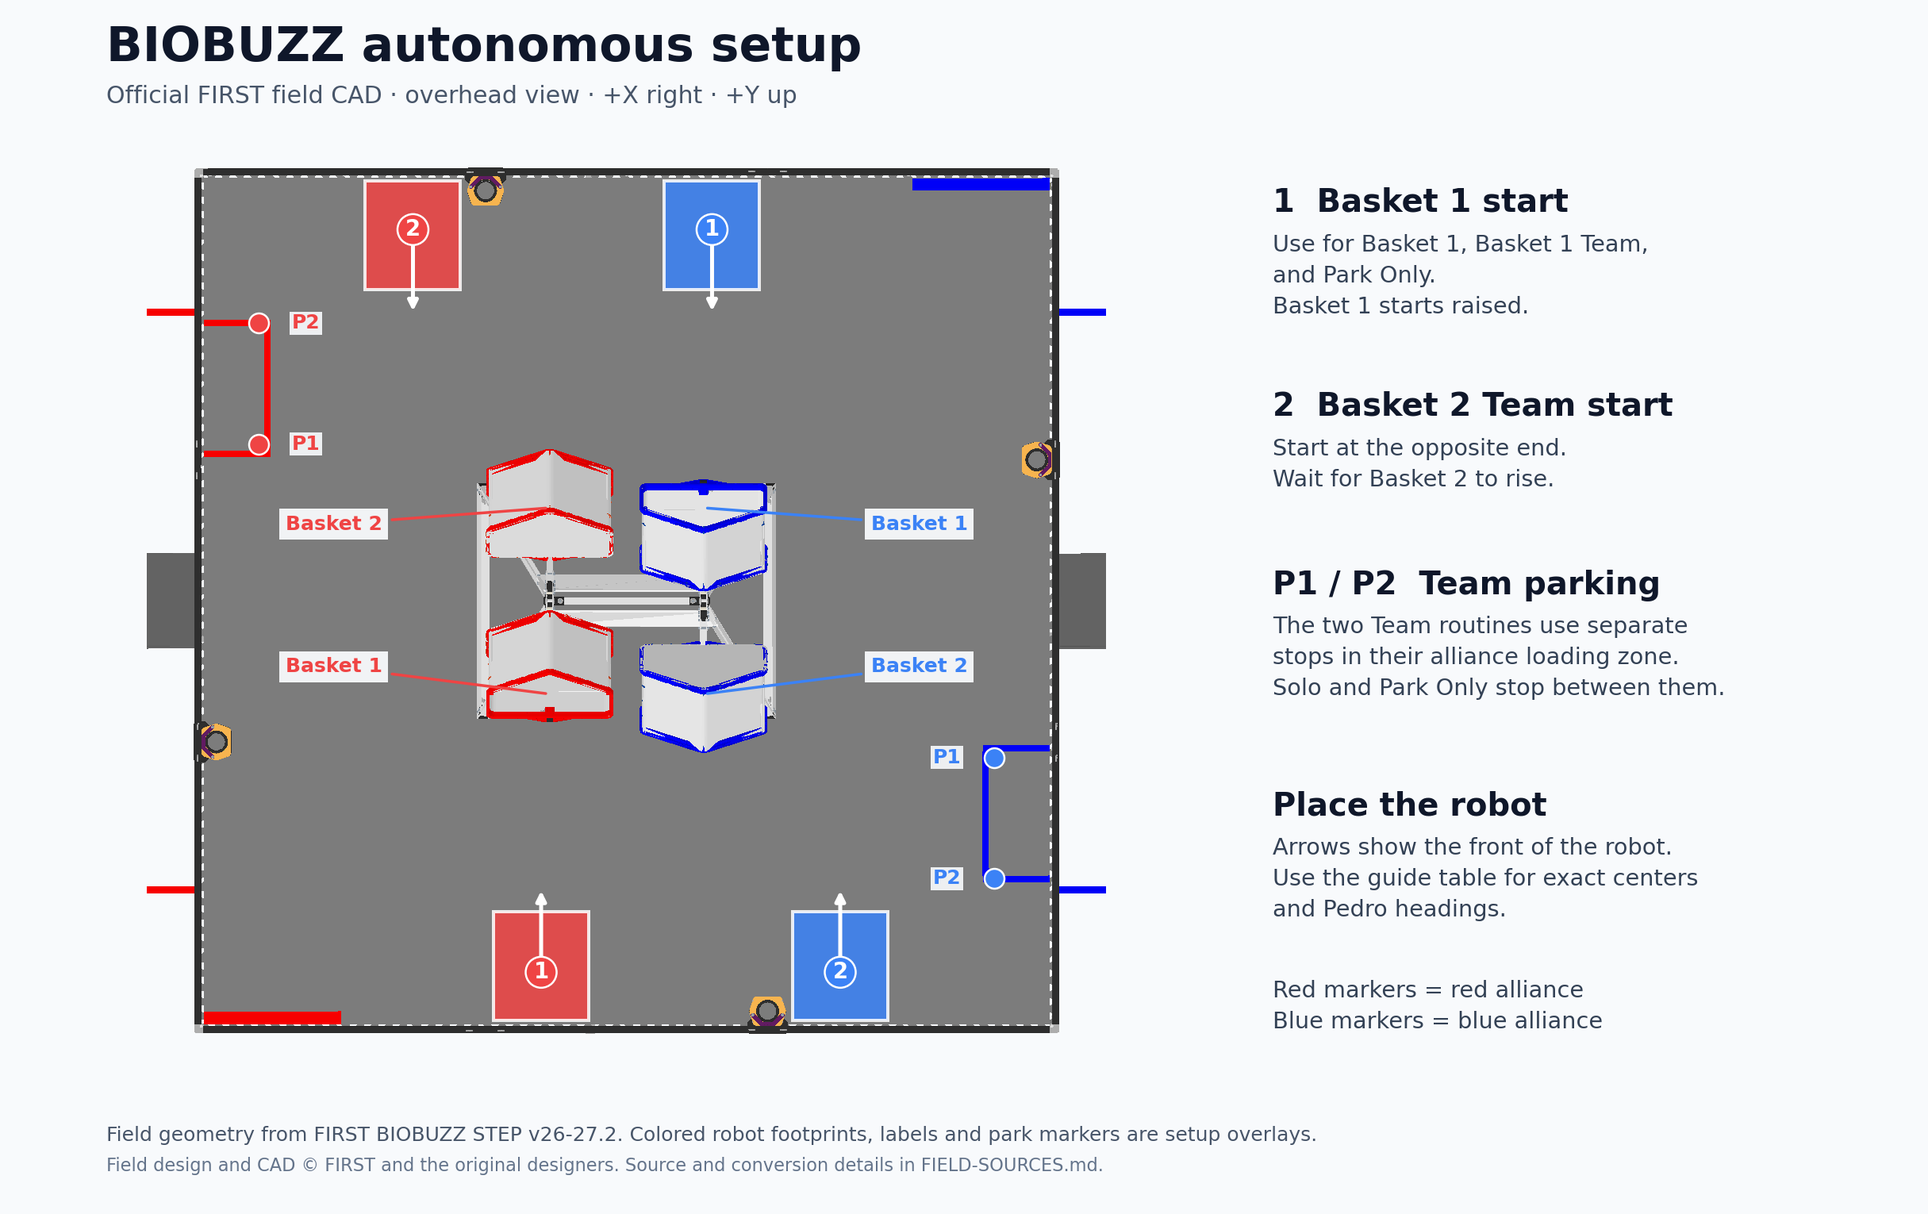
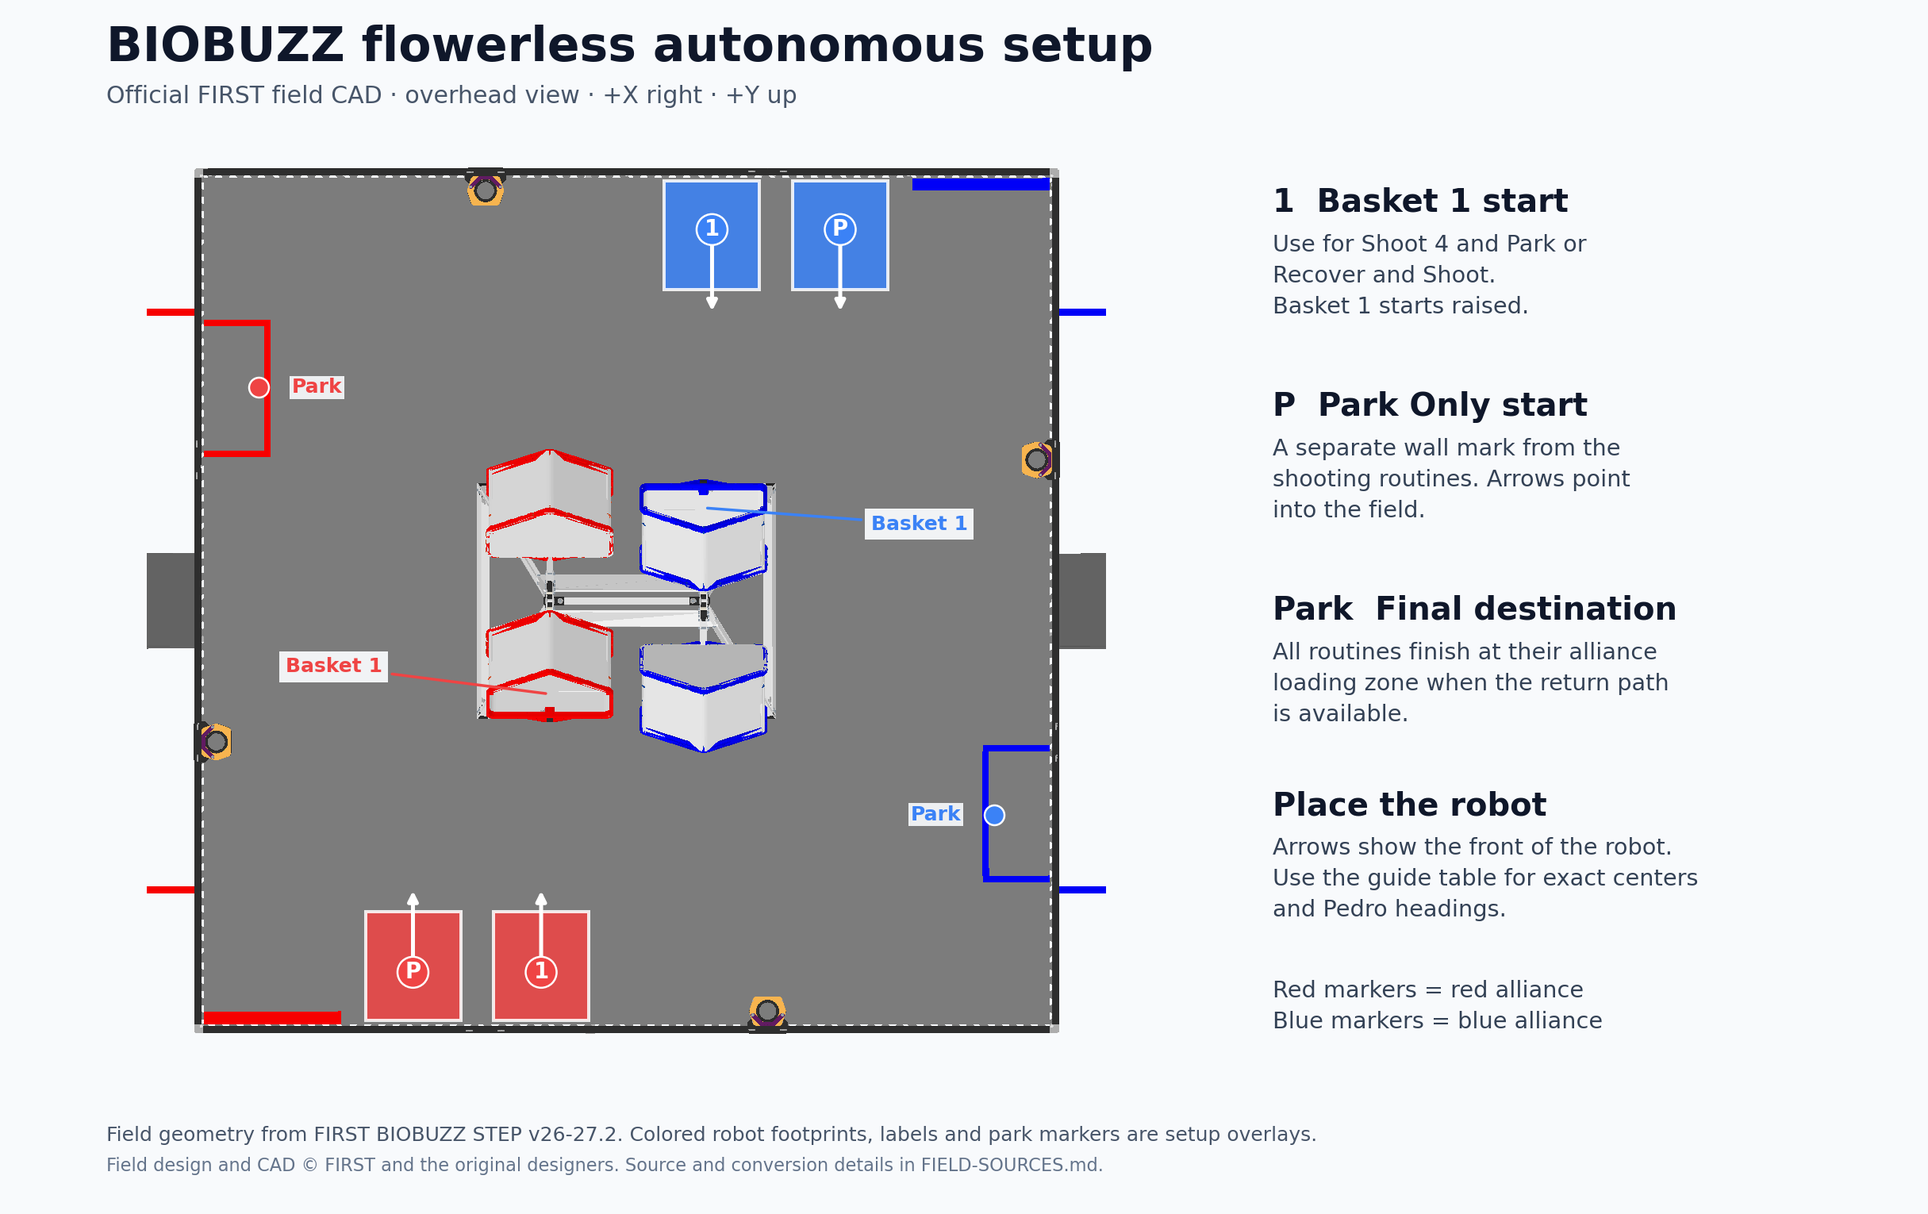
Add six flowerless Basket 1 autonomous routines and separate park starts

diff --git a/TeamCode/src/main/java/org/firstinspires/ftc/teamcode/Auton/cycles/ThirtySecondAuto.java b/TeamCode/src/main/java/org/firstinspires/ftc/teamcode/Auton/cycles/ThirtySecondAuto.java
@@ -32,6 +32,7 @@ public abstract class ThirtySecondAuto extends OpMode {
     private int emptyBase;
     private double cellSafeAt;
     private double raisedCellSince=-1;
+    private double loweredCellSince=-1;
     private boolean partnerTipConfirmed;
     private boolean usedBasketFallback;
     private boolean basketCycleDry;
@@ -58,6 +59,7 @@ public abstract class ThirtySecondAuto extends OpMode {
         collector.avoidFlowers=route.strategy==CycleRoute.Strategy.NO_FLOWERS||route.lineup==CycleRoute.Lineup.PARTNER||route.basketTeam();
         collector.avoidFrame=route.avoidFrame();
         if(route.basketTeam())collector.quadrantEnd=route.basketOne()?-1:1;
+        if(route.floorOnly())collector.quadrantEnd=-1;
         pinpoint=hardwareMap.get(GoBildaPinpointDriver.class,"pinpoint");
         follower.setPose(route.initial); follower.update();
         mechanisms=new CycleMechanisms(hardwareMap);
@@ -119,6 +121,7 @@ public abstract class ThirtySecondAuto extends OpMode {
         int pipeline=shooting?VisionRules.SHOT_PIPELINE:VisionRules.POLLEN_PIPELINE;
         if(pipeline!=visionPipeline){camera.pipelineSwitch(pipeline);visionPipeline=pipeline;}
         raisedCellSince=-1;
+        loweredCellSince=-1;
         if(route.rushStyle()&&index>route.bonusIndex)mechanisms.stop();
         double preparedSpeed=stage.action()==CycleRoute.Action.BONUS_FIRE?1320:index==1?CycleMechanisms.SPEED:2200;
         if(route.rushStyle()&&index<=route.bonusIndex){
@@ -187,8 +190,12 @@ public abstract class ThirtySecondAuto extends OpMode {
             }
             boolean collected=collector.update(follower,mechanisms,camera.getLatestResult(),VisionRules.POLLEN_PIPELINE,route.blue,stage.count(),now);
             vision=collector.status+"; attempts "+collector.attempts;
+            if(route.floorOnly()&&now-stageStart>stage.limit()&&!collector.hasAttemptedPickup()){
+                beginPark();report();return;
+            }
             // Let a just-fired batch settle or dump before deciding the quadrant is empty.
-            boolean waitForSpill=route.basketTeam()&&collector.attempts==0&&now-stageStart<basketSearchSeconds;
+            boolean waitForSpill=route.basketTeam()&&collector.attempts==0&&now-stageStart<basketSearchSeconds
+                ||route.floorOnly()&&!collector.hasAttemptedPickup();
             if((collected&&!waitForSpill)||now-stageStart>stage.limit())next();
             report();return;
         }
@@ -254,6 +261,17 @@ public abstract class ThirtySecondAuto extends OpMode {
             else if(stage.action()==CycleRoute.Action.COLLECT){mechanisms.collect(true);if(now-settled>.18)next();}
             else if(stage.action()==CycleRoute.Action.WAIT_TIP){
                 mechanisms.close();vision="Waiting for released balls to reach the floor";
+                if(route.floorOnly()){
+                    boolean lowered=tags.readyLoweredCell(route.blue?42:34,p,route.blue,true);
+                    vision=tags.status;
+                    if(!lowered)loweredCellSince=-1;
+                    else {
+                        if(loweredCellSince<0)loweredCellSince=now;
+                        if(now-loweredCellSince>=.65)next();
+                    }
+                    if(now-stageStart>stage.limit())beginPark();
+                    report();return;
+                }
                 LLResult floor=camera.getLatestResult();
                 boolean groundTarget=false;
                 if(SpillCollector.fresh(floor,VisionRules.POLLEN_PIPELINE))for(LLResultTypes.DetectorResult blob:SpillCollector.pollen(floor)){
@@ -324,14 +342,17 @@ public abstract class ThirtySecondAuto extends OpMode {
         boolean fast=speed>.40&&futureSpeed>.75;
         // Finish an unsafe-in-transit shot at the actual pickup approach, never by making extra passes.
         boolean settledAtPickup=arrived&&speed<.08&&Math.abs(measured.omega)<.10;
-        boolean fresh=rollingVisionReady(now,p,near,arrived)&&shotPose!=null,complete=mechanisms.fired-shotBase>=stage.count()||mechanisms.emptyPulses-emptyBase>=1;
+        boolean openingFour=route.floorOnly()&&index==2;
+        boolean complete=mechanisms.fired-shotBase>=stage.count()
+            ||!openingFour&&mechanisms.emptyPulses-emptyBase>=1;
+        boolean fresh=rollingVisionReady(now,p,near,arrived)&&shotPose!=null;
         if(shotPose==null)vision=shotVision.status;
         boolean permit=!complete&&now>=cellSafeAt&&rollingStart>=0&&(fast||settledAtPickup)&&movingSolution!=null&&direct!=null&&fresh&&chassisFits(p,h)&&chassisFits(releasePose,h);
         mechanisms.feedPredicted(now,permit,fresh&&!complete);
         shotStatus=String.format(java.util.Locale.US,"v %.2f -> %.2f, remaining %.2f m, aim %.1f deg, RPM ticks %.0f/%.0f, valid %s, feed %s",speed,futureSpeed,current.remaining(),Math.toDegrees(Math.atan2(Math.sin(releasePose.heading()-h),Math.cos(releasePose.heading()-h))),mechanisms.speed(),movingSolution==null?0:movingSolution.ticks(),direct!=null,permit);
         if(complete&&arrived){next();return;}
         if(now-stageStart>stage.limit()){
-            if(route.basketTeam()||route.lineup==CycleRoute.Lineup.PARTNER||route.rushStyle()&&!vision.contains("No fresh"))beginPark();
+            if(route.floorOnly()||route.basketTeam()||route.lineup==CycleRoute.Lineup.PARTNER||route.rushStyle()&&!vision.contains("No fresh"))beginPark();
             else finish("Rolling stage timeout: "+stage.name());
         }
     }
@@ -342,7 +363,7 @@ public abstract class ThirtySecondAuto extends OpMode {
         return Math.abs(x)+ex<1.790&&Math.abs(y)+ey<1.790&&x*(route.blue?-1:1)+ex<-.002;
     }
     private boolean rollingVisionReady(double now,Pose pose,boolean near,boolean arrived){
-        if(route.basketTeam()){
+        if(route.basketTeam()||route.floorOnly()){
             int first=route.blue?(near?42:38):(near?34:30);
             boolean raised=tags.readyRaisedCell(first,pose,route.blue,near);
             vision=tags.status;

diff --git a/TeamCode/src/main/java/org/firstinspires/ftc/teamcode/Auton/cycles/WebcamTags.java b/TeamCode/src/main/java/org/firstinspires/ftc/teamcode/Auton/cycles/WebcamTags.java
@@ -24,7 +24,7 @@ public final class WebcamTags {
         portal = VisionPortal.easyCreateWithDefaults(hardwareMap.get(WebcamName.class, NAME), processor);
     }
     public boolean ready(int first) {
-        return ready(first, null, false, false);
+        return ready(first, null, false, false, true);
     }
 
     /** Far-board IDs can be visible underneath the hive before the tip. */
@@ -33,10 +33,14 @@ public final class WebcamTags {
     }
 
     public boolean readyRaisedCell(int first, Pose robot, boolean blue, boolean near) {
-        return ready(first, robot, blue, near);
+        return ready(first, robot, blue, near, true);
     }
 
-    private boolean ready(int first, Pose raisedFrom, boolean blue, boolean near) {
+    public boolean readyLoweredCell(int first, Pose robot, boolean blue, boolean near) {
+        return ready(first, robot, blue, near, false);
+    }
+
+    private boolean ready(int first, Pose raisedFrom, boolean blue, boolean near, boolean raised) {
         if (closed) { status = "Webcam closed - holding fire"; return false; }
         long now = System.nanoTime();
         boolean fresh = false;
@@ -48,19 +52,21 @@ public final class WebcamTags {
             fresh = true;
             if (VisionRules.expectedTag(tag.id, first)) {
                 expected = true;
-                if (raisedFrom != null && !raised(tag, first, raisedFrom, blue, near)) continue;
+                if (raisedFrom != null && !matchesHeight(tag, first, raisedFrom, blue, near, raised)) continue;
                 status = "Webcam verified cell " + first;
                 return true;
             }
         }
         if (expected) {
-            status = "Cell still down or pose unavailable - holding fire";
+            status = raised ? "Cell still down or pose unavailable - holding fire"
+                    : "Waiting for tipped cell to reach the lower stop";
             return false;
         }
         status = fresh ? "Webcam wrong cell - holding fire" : "No fresh webcam tag - holding fire";
         return false;
     }
-    private boolean raised(AprilTagSingleDetection tag, int first, Pose robot, boolean blue, boolean near) {
+    private boolean matchesHeight(AprilTagSingleDetection tag, int first, Pose robot,
+                                  boolean blue, boolean near, boolean raised) {
         if (tag.ftcPose == null || tag.ftcPose.y <= 0) return false;
         // Undo camera pitch, then use the ray slope and odometry range to estimate
         // height. The slope is independent of tag range scale and output units.
@@ -69,11 +75,11 @@ public final class WebcamTags {
         double sign = blue ? -1 : 1;
         double end = near ? -1 : 1;
         double tagX = sign * (-.32385 - end * FAR_TAG_OFFSETS_INCHES[tag.id - first] * .0254);
-        double tagY = sign * end * .327341117;
+        double tagY = sign * end * (raised ? .327341117 : .289414654);
         double horizontalRange = Math.hypot(tagX - robot.x() * .0254, tagY - robot.y() * .0254);
         double height = CAMERA_HEIGHT_METERS + horizontalRange * up / Math.hypot(tag.ftcPose.x, forward);
         // The lower board is around 0.91 m, the raised board around 1.26 m.
-        return height >= 1.22 && height <= 1.34;
+        return raised ? height >= 1.22 && height <= 1.34 : height >= .86 && height <= 1.00;
     }
 
     public void close() {

diff --git a/TeamCode/src/main/java/org/firstinspires/ftc/teamcode/Auton/cycles/CycleRoute.java b/TeamCode/src/main/java/org/firstinspires/ftc/teamcode/Auton/cycles/CycleRoute.java
@@ -29,7 +29,8 @@ public final class CycleRoute {
             return alliancePose(blue, -1.55, .90, 90);
         }
     }
-    public enum Lineup { LEGACY, SOLO, PARTNER, BASKET_ONE_TEAM, BASKET_TWO_TEAM }
+    public enum Lineup { LEGACY, SOLO, PARTNER, BASKET_ONE_TEAM, BASKET_TWO_TEAM,
+        FOUR_PARK, FOUR_RECOVER_TEAM }
     public enum Action { MOVE, COLLECT, FLOWER_COLLECT, FIRE, BONUS_FIRE, WAIT_TIP, VISION_COLLECT, VISION_NECTAR, SWEEP, ROLL_NEAR, ROLL_FAR, PARK }
     public enum Strategy { FLOWERS, TIPPED_POLLEN, ADAPTIVE_ALL, RUSH_TIPS, NO_FLOWERS }
     public static final class Stage {
@@ -80,6 +81,11 @@ public final class CycleRoute {
         }
         initial=lineup==Lineup.BASKET_TWO_TEAM?pose(-.90,1.564259,-90)
             :lineup==Lineup.LEGACY?pose(startX,-1.564259,90):start.wallPose();
+        if(floorOnly()){
+            park=pose(-1.55,.90,90);
+            floorRoute();
+            return;
+        }
         if(basketTeam()){
             // Split the loading zone along its length so both robots can park.
             park=pose(-1.55,basketOne()?.66:1.17,90);
@@ -172,6 +178,20 @@ public final class CycleRoute {
         add("Collect teleop preload",-1.50,-1.564259,180,Action.SWEEP,0,2.0);
     }
     public boolean rushStyle(){return strategy==Strategy.RUSH_TIPS||strategy==Strategy.NO_FLOWERS;}
+    public boolean floorOnly(){return lineup==Lineup.FOUR_PARK||lineup==Lineup.FOUR_RECOVER_TEAM;}
+
+    private void floorRoute(){
+        add("Clear starting wall",-.36,-1.43,90,Action.MOVE,0,3);
+        add("Shoot four preloads into Basket 1",-.36,-1.43,90,Action.ROLL_NEAR,4,12);
+        if(lineup==Lineup.FOUR_RECOVER_TEAM){
+            add("Move forward toward the spill",-.36,-1.18,90,Action.MOVE,0,3);
+            add("Wait for Basket 1 to tip and settle",-.36,-1.18,90,Action.WAIT_TIP,0,10);
+            add("Face the loose pollen spill",-1.12,-1.42,-22,Action.MOVE,0,3);
+            add("Recover fallen pollen with Limelight",-1.12,-1.42,-22,Action.VISION_COLLECT,4,7);
+            add("Wait for teammate and shoot Basket 1 again",-1.13,-.85,29.6,Action.ROLL_NEAR,4,30);
+        }
+        bonusIndex=stages.size();
+    }
     public boolean basketTeam(){
         return lineup==Lineup.BASKET_ONE_TEAM||lineup==Lineup.BASKET_TWO_TEAM;
     }
@@ -259,7 +279,7 @@ public final class CycleRoute {
         double inches=0;Pose from=current;
         for(Pose to:parkingPath(current)){inches+=Math.hypot(to.x()-from.x(),to.y()-from.y());from=to;}
         // Include braking the fast pass, turning, and settling inside the loading zone.
-        if(basketTeam())return 1.90+inches*.0254/1.20;
+        if(basketTeam()||floorOnly())return 1.90+inches*.0254/1.20;
         return rushStyle()?1.15+inches*.0254/1.20:strategy==Strategy.ADAPTIVE_ALL?1.45+inches*.0254/1.20:1.05+inches*.0254/.85;
     }
     private Pose pose(double x,double y,double heading) {

diff --git a/TeamCode/src/main/java/org/firstinspires/ftc/teamcode/Auton/BlueBasket1RecoverShoot.java b/TeamCode/src/main/java/org/firstinspires/ftc/teamcode/Auton/BlueBasket1RecoverShoot.java
@@ -1,0 +1,12 @@
+package org.firstinspires.ftc.teamcode.Auton;
+
+import com.qualcomm.robotcore.eventloop.opmode.Autonomous;
+import org.firstinspires.ftc.teamcode.Auton.cycles.CycleRoute;
+import org.firstinspires.ftc.teamcode.Auton.cycles.ThirtySecondAuto;
+
+@Autonomous(name = "Blue Basket 1 Recover and Shoot", group = "26123 Flowerless")
+public final class BlueBasket1RecoverShoot extends ThirtySecondAuto {
+    @Override protected CycleRoute.Start startingPoint() { return CycleRoute.Start.BLUE_WEST; }
+    @Override protected CycleRoute.Strategy strategy() { return CycleRoute.Strategy.NO_FLOWERS; }
+    @Override protected CycleRoute.Lineup lineup() { return CycleRoute.Lineup.FOUR_RECOVER_TEAM; }
+}

diff --git a/TeamCode/src/main/java/org/firstinspires/ftc/teamcode/Auton/RedBasket1RecoverShoot.java b/TeamCode/src/main/java/org/firstinspires/ftc/teamcode/Auton/RedBasket1RecoverShoot.java
@@ -1,0 +1,12 @@
+package org.firstinspires.ftc.teamcode.Auton;
+
+import com.qualcomm.robotcore.eventloop.opmode.Autonomous;
+import org.firstinspires.ftc.teamcode.Auton.cycles.CycleRoute;
+import org.firstinspires.ftc.teamcode.Auton.cycles.ThirtySecondAuto;
+
+@Autonomous(name = "Red Basket 1 Recover and Shoot", group = "26123 Flowerless")
+public final class RedBasket1RecoverShoot extends ThirtySecondAuto {
+    @Override protected CycleRoute.Start startingPoint() { return CycleRoute.Start.RED_EAST; }
+    @Override protected CycleRoute.Strategy strategy() { return CycleRoute.Strategy.NO_FLOWERS; }
+    @Override protected CycleRoute.Lineup lineup() { return CycleRoute.Lineup.FOUR_RECOVER_TEAM; }
+}

diff --git a/TeamCode/src/main/java/org/firstinspires/ftc/teamcode/Auton/BlueBasket1Shoot4Park.java b/TeamCode/src/main/java/org/firstinspires/ftc/teamcode/Auton/BlueBasket1Shoot4Park.java
@@ -1,0 +1,12 @@
+package org.firstinspires.ftc.teamcode.Auton;
+
+import com.qualcomm.robotcore.eventloop.opmode.Autonomous;
+import org.firstinspires.ftc.teamcode.Auton.cycles.CycleRoute;
+import org.firstinspires.ftc.teamcode.Auton.cycles.ThirtySecondAuto;
+
+@Autonomous(name = "Blue Basket 1 Shoot 4 and Park", group = "26123 Flowerless")
+public final class BlueBasket1Shoot4Park extends ThirtySecondAuto {
+    @Override protected CycleRoute.Start startingPoint() { return CycleRoute.Start.BLUE_WEST; }
+    @Override protected CycleRoute.Strategy strategy() { return CycleRoute.Strategy.NO_FLOWERS; }
+    @Override protected CycleRoute.Lineup lineup() { return CycleRoute.Lineup.FOUR_PARK; }
+}

diff --git a/TeamCode/src/main/java/org/firstinspires/ftc/teamcode/Auton/RedBasket1Shoot4Park.java b/TeamCode/src/main/java/org/firstinspires/ftc/teamcode/Auton/RedBasket1Shoot4Park.java
@@ -1,0 +1,12 @@
+package org.firstinspires.ftc.teamcode.Auton;
+
+import com.qualcomm.robotcore.eventloop.opmode.Autonomous;
+import org.firstinspires.ftc.teamcode.Auton.cycles.CycleRoute;
+import org.firstinspires.ftc.teamcode.Auton.cycles.ThirtySecondAuto;
+
+@Autonomous(name = "Red Basket 1 Shoot 4 and Park", group = "26123 Flowerless")
+public final class RedBasket1Shoot4Park extends ThirtySecondAuto {
+    @Override protected CycleRoute.Start startingPoint() { return CycleRoute.Start.RED_EAST; }
+    @Override protected CycleRoute.Strategy strategy() { return CycleRoute.Strategy.NO_FLOWERS; }
+    @Override protected CycleRoute.Lineup lineup() { return CycleRoute.Lineup.FOUR_PARK; }
+}

diff --git a/TeamCode/src/main/java/org/firstinspires/ftc/teamcode/Auton/BlueBasket1Team.java b/TeamCode/src/main/java/org/firstinspires/ftc/teamcode/Auton/BlueBasket1Team.java
@@ -3,9 +3,7 @@ package org.firstinspires.ftc.teamcode.Auton;
 import org.firstinspires.ftc.teamcode.Auton.cycles.CycleRoute;
 import org.firstinspires.ftc.teamcode.Auton.cycles.ThirtySecondAuto;
 
-import com.qualcomm.robotcore.eventloop.opmode.Autonomous;
 
-@Autonomous(name = "Blue Basket 1 Team", group = "26123 Match Lineup")
 public final class BlueBasket1Team extends ThirtySecondAuto {
     @Override protected CycleRoute.Start startingPoint() { return CycleRoute.Start.BLUE_WEST; }
     @Override protected CycleRoute.Strategy strategy() { return CycleRoute.Strategy.RUSH_TIPS; }

diff --git a/TeamCode/src/main/java/org/firstinspires/ftc/teamcode/Auton/BlueBasket2Team.java b/TeamCode/src/main/java/org/firstinspires/ftc/teamcode/Auton/BlueBasket2Team.java
@@ -3,9 +3,7 @@ package org.firstinspires.ftc.teamcode.Auton;
 import org.firstinspires.ftc.teamcode.Auton.cycles.CycleRoute;
 import org.firstinspires.ftc.teamcode.Auton.cycles.ThirtySecondAuto;
 
-import com.qualcomm.robotcore.eventloop.opmode.Autonomous;
 
-@Autonomous(name = "Blue Basket 2 Team", group = "26123 Match Lineup")
 public final class BlueBasket2Team extends ThirtySecondAuto {
     @Override protected CycleRoute.Start startingPoint() { return CycleRoute.Start.BLUE_WEST; }
     @Override protected CycleRoute.Strategy strategy() { return CycleRoute.Strategy.RUSH_TIPS; }

diff --git a/TeamCode/src/main/java/org/firstinspires/ftc/teamcode/Auton/RedBasket1Team.java b/TeamCode/src/main/java/org/firstinspires/ftc/teamcode/Auton/RedBasket1Team.java
@@ -3,9 +3,7 @@ package org.firstinspires.ftc.teamcode.Auton;
 import org.firstinspires.ftc.teamcode.Auton.cycles.CycleRoute;
 import org.firstinspires.ftc.teamcode.Auton.cycles.ThirtySecondAuto;
 
-import com.qualcomm.robotcore.eventloop.opmode.Autonomous;
 
-@Autonomous(name = "Red Basket 1 Team", group = "26123 Match Lineup")
 public final class RedBasket1Team extends ThirtySecondAuto {
     @Override protected CycleRoute.Start startingPoint() { return CycleRoute.Start.RED_EAST; }
     @Override protected CycleRoute.Strategy strategy() { return CycleRoute.Strategy.RUSH_TIPS; }

diff --git a/TeamCode/src/main/java/org/firstinspires/ftc/teamcode/Auton/RedBasket2Team.java b/TeamCode/src/main/java/org/firstinspires/ftc/teamcode/Auton/RedBasket2Team.java
@@ -3,9 +3,7 @@ package org.firstinspires.ftc.teamcode.Auton;
 import org.firstinspires.ftc.teamcode.Auton.cycles.CycleRoute;
 import org.firstinspires.ftc.teamcode.Auton.cycles.ThirtySecondAuto;
 
-import com.qualcomm.robotcore.eventloop.opmode.Autonomous;
 
-@Autonomous(name = "Red Basket 2 Team", group = "26123 Match Lineup")
 public final class RedBasket2Team extends ThirtySecondAuto {
     @Override protected CycleRoute.Start startingPoint() { return CycleRoute.Start.RED_EAST; }
     @Override protected CycleRoute.Strategy strategy() { return CycleRoute.Strategy.RUSH_TIPS; }

diff --git a/TeamCode/src/main/java/org/firstinspires/ftc/teamcode/Auton/BlueBasket1.java b/TeamCode/src/main/java/org/firstinspires/ftc/teamcode/Auton/BlueBasket1.java
@@ -3,9 +3,7 @@ package org.firstinspires.ftc.teamcode.Auton;
 import org.firstinspires.ftc.teamcode.Auton.cycles.CycleRoute;
 import org.firstinspires.ftc.teamcode.Auton.cycles.ThirtySecondAuto;
 
-import com.qualcomm.robotcore.eventloop.opmode.Autonomous;
 
-@Autonomous(name = "Blue Basket 1", group = "26123 Match Lineup")
 public final class BlueBasket1 extends ThirtySecondAuto {
     @Override protected CycleRoute.Start startingPoint() { return CycleRoute.Start.BLUE_WEST; }
     @Override protected CycleRoute.Strategy strategy() { return CycleRoute.Strategy.RUSH_TIPS; }
